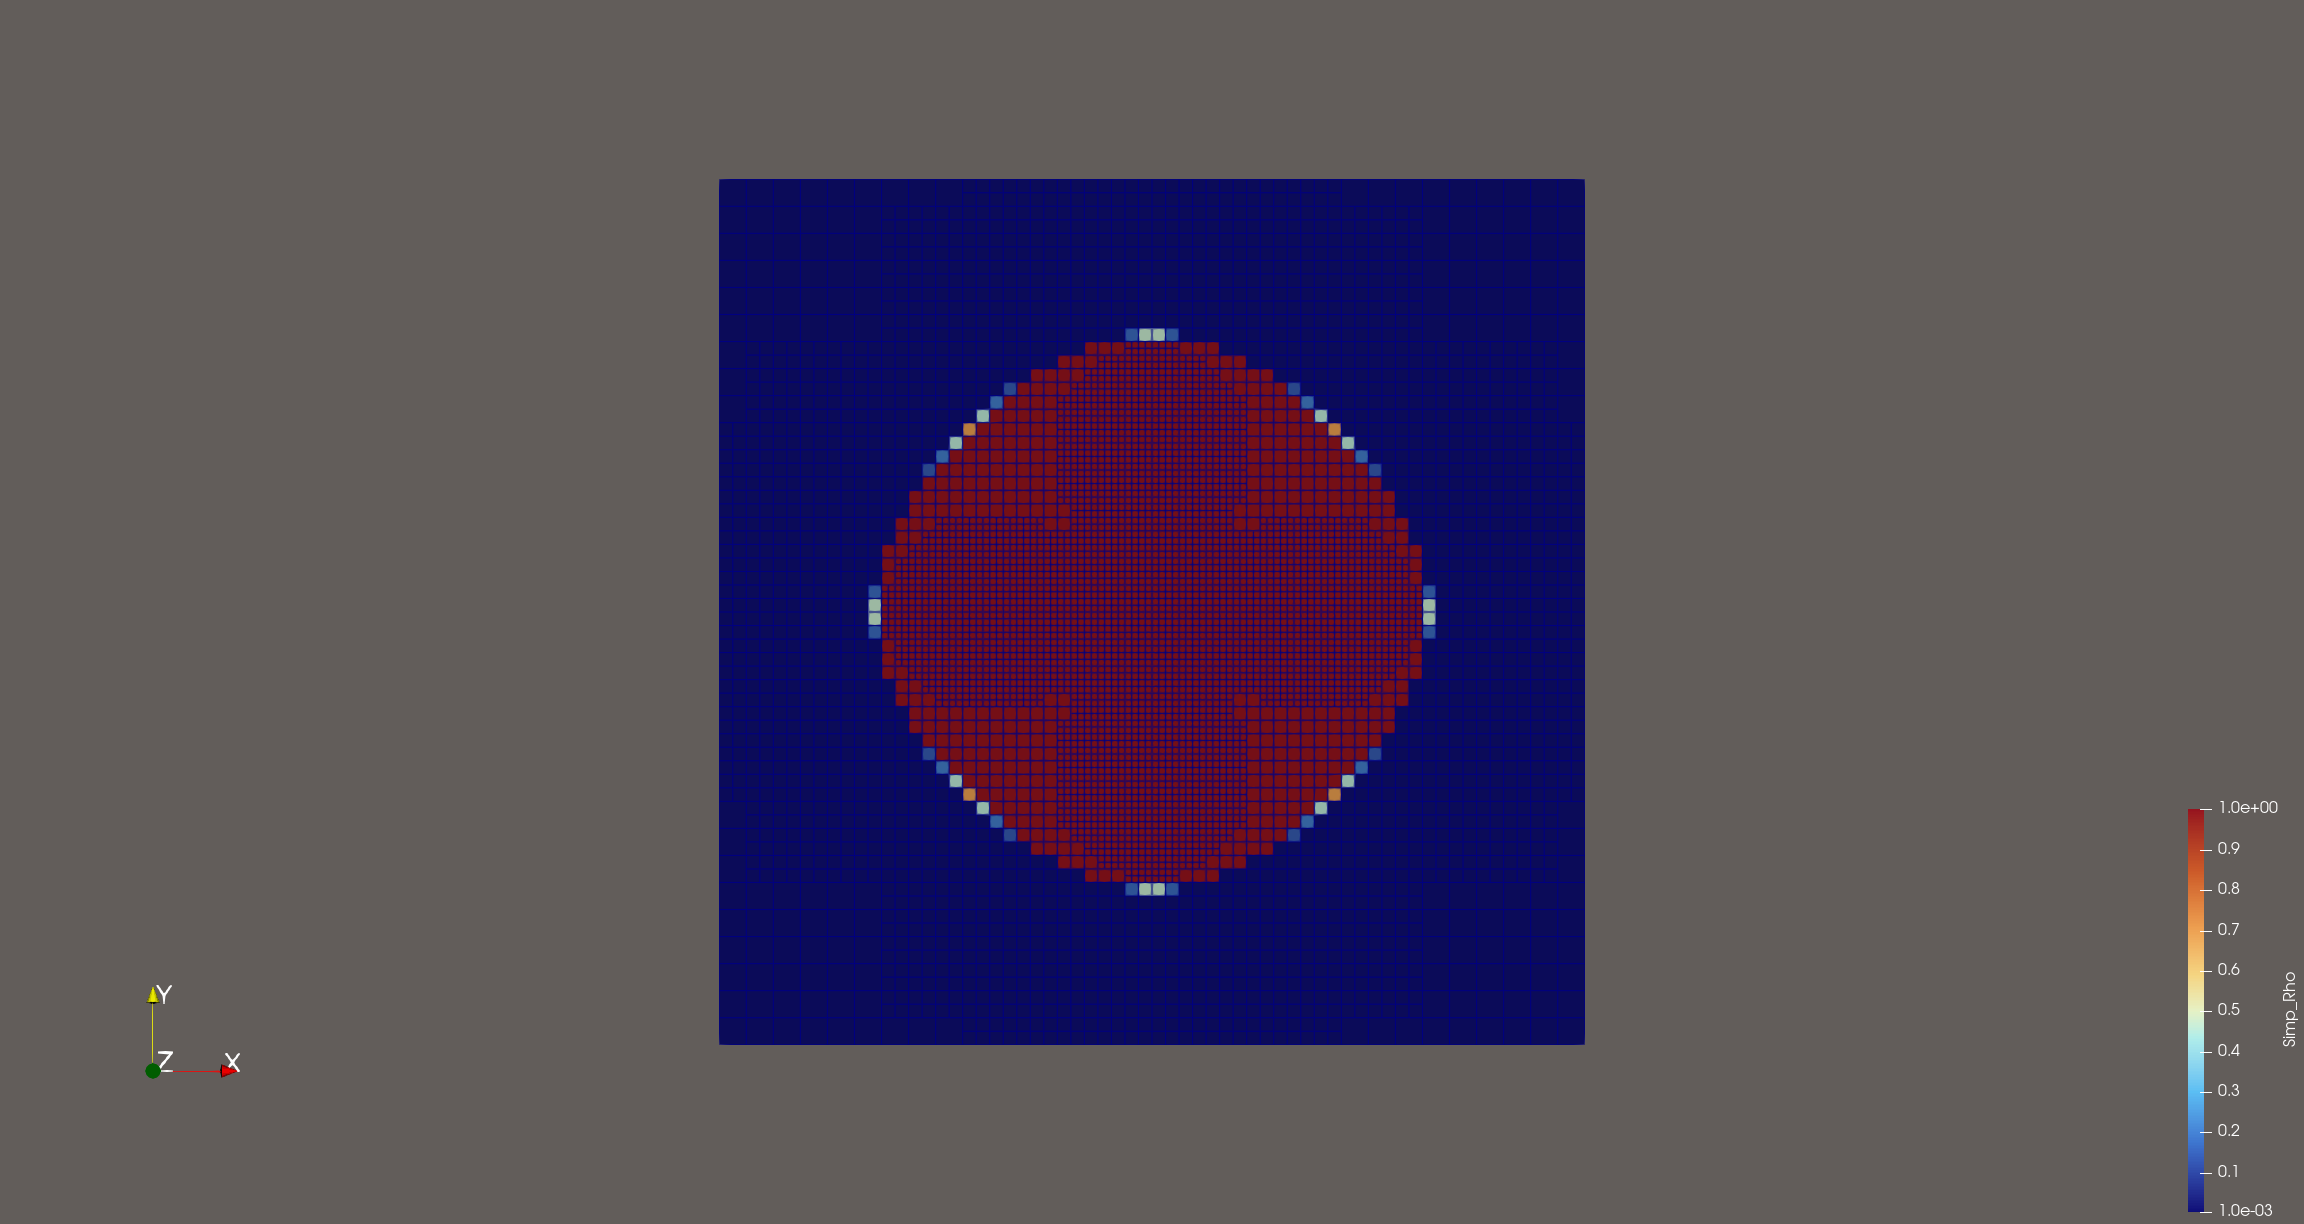
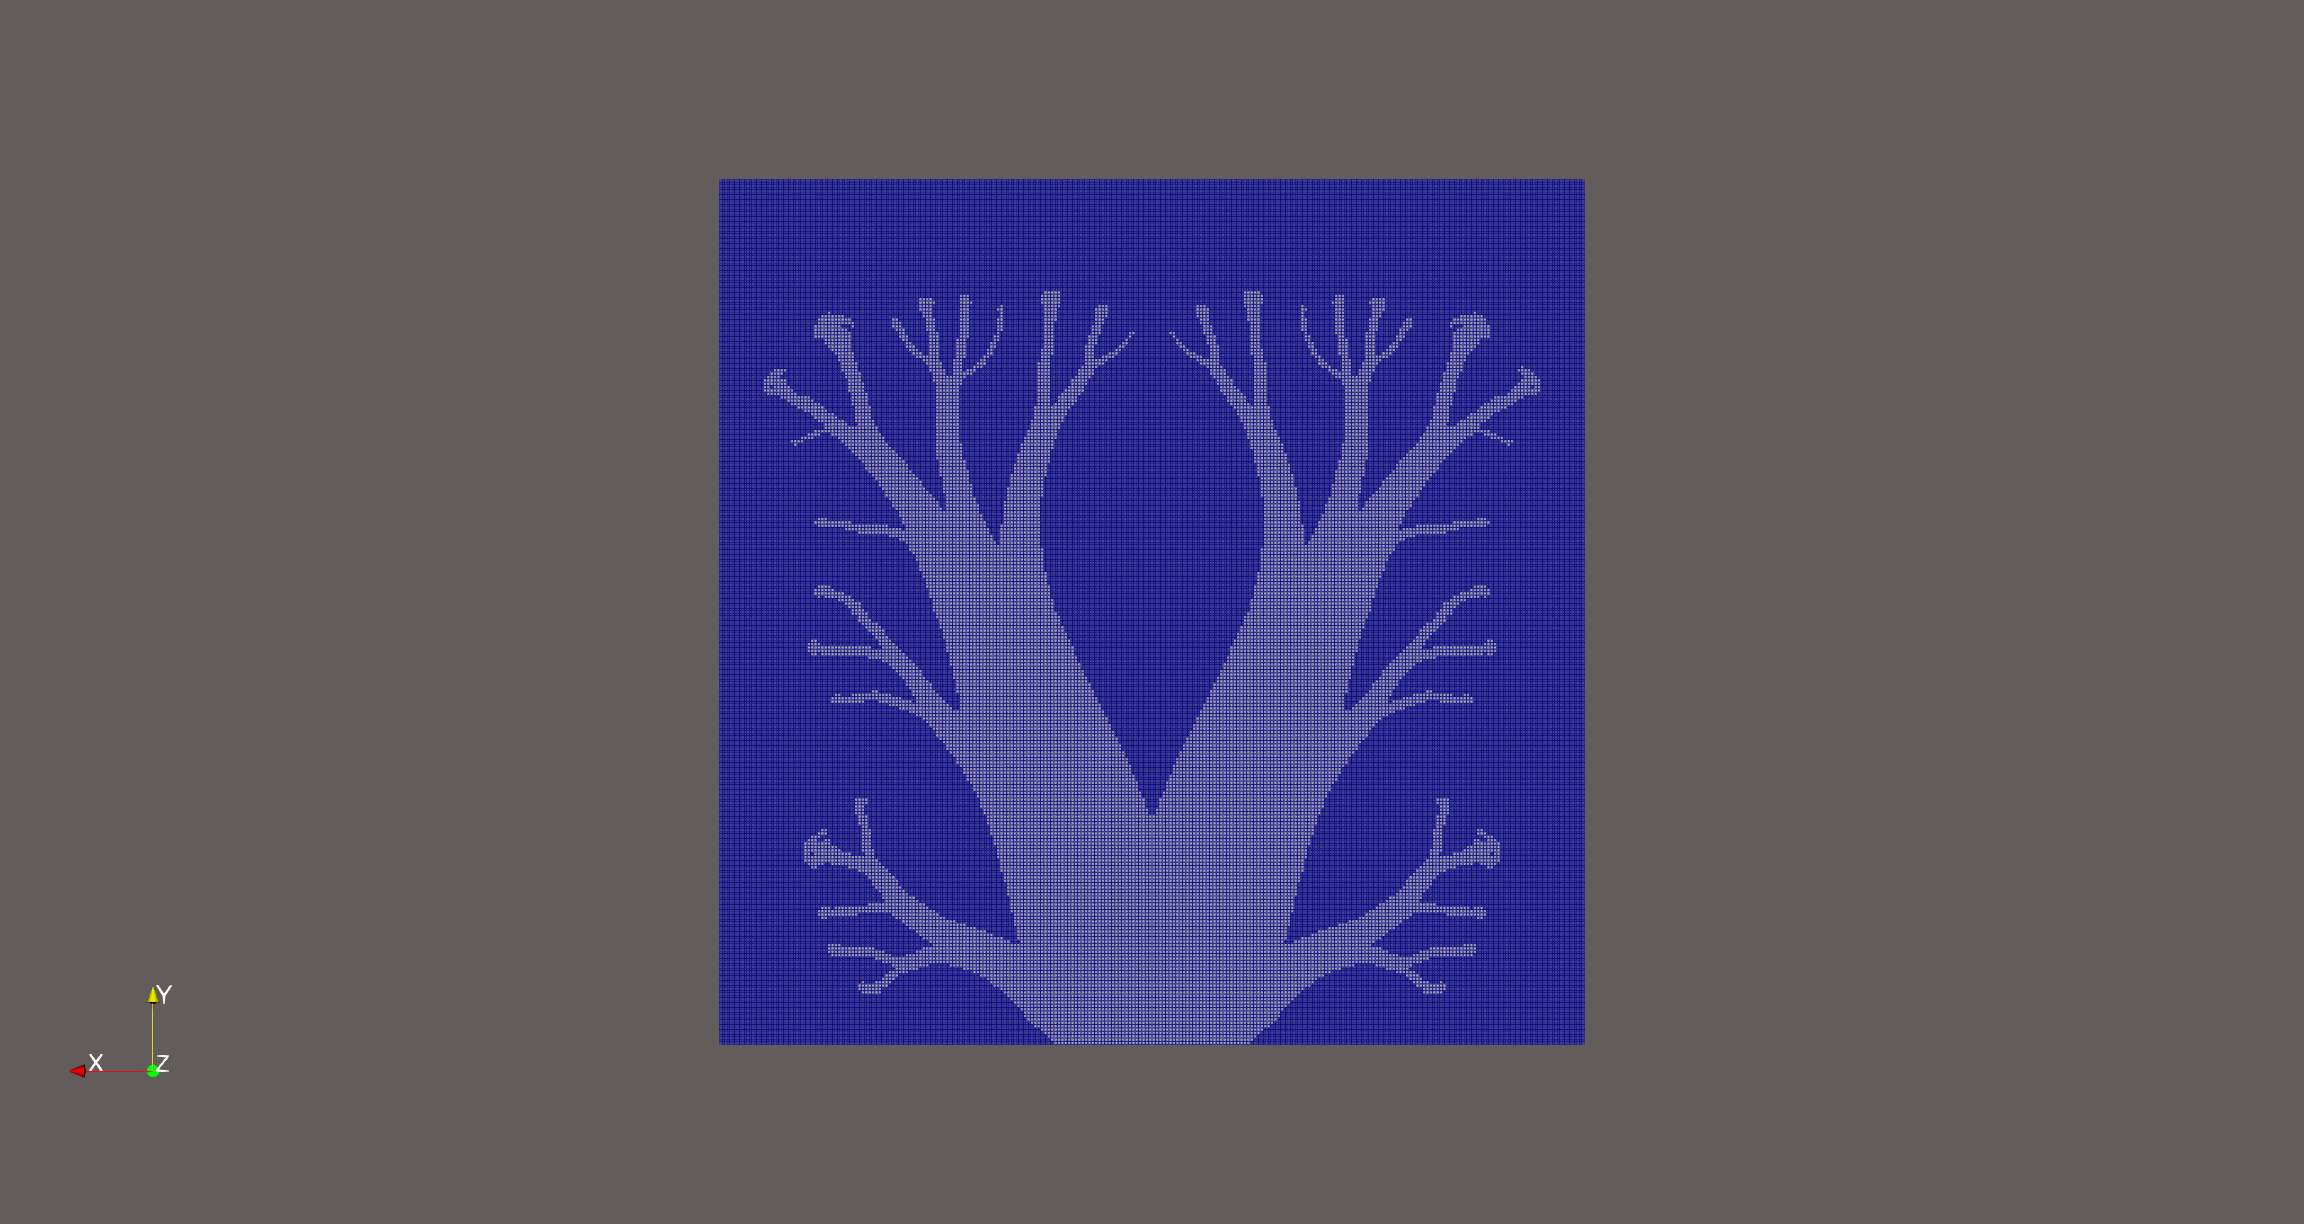
Improve documentation and fix build configuration

Changed region(s): [[0.3125, 0.1242, 0.6875, 0.8693], [0.9375, 0.652, 0.9688, 0.9935]]

diff --git a/topology_optimization_martixfree_gmg/doc/extension/adaptive_mesh.md b/topology_optimization_martixfree_gmg/doc/extension/adaptive_mesh.md
@@ -11,7 +11,7 @@ In the implementation, the following vectors are transferred across refinement a
 - the two previous design iterates stored in `MMA_Optimizer.Old_Design_Variables`;
 - the maximum and minimum design-variable bounds, `Simp_Rho_Discrete_Max` and `Simp_Rho_Discrete_Min`.
 
-The transfer is performed with `parallel::distributed::SolutionTransfer` associated with the design-variable DoFHandler.
+The transfer is performed with `SolutionTransfer` associated with the design-variable DoFHandler.
 
 ## Refinement procedure
 
@@ -44,8 +44,8 @@ void Refine_Grid()
     &Simp_Rho_Discrete_Max,
     &Simp_Rho_Discrete_Min};
 
-  parallel::distributed::SolutionTransfer<dim, VectorType>
-    solution_transfer(dof_handler_rho);
+  SolutionTransfer<dim, VectorType>
+    solution_transfer(dof_handler_simp);
 
   triangulation.prepare_coarsening_and_refinement();
   solution_transfer.prepare_for_coarsening_and_refinement(vectors_in);
@@ -54,6 +54,8 @@ void Refine_Grid()
   // Rebuild the design DoFHandler and reinitialize the MMA vectors.
   setup_simp_system();
   MMA_Optimizer.Deal_II_MMA_Reinit(Simp_Rho_Discrete);
+  get_cell_volume();
+  Rmin = 2. * pow(Cell_Volume_Discrete.linfty_norm(), 1./(double)dim) / (2. * sqrt(3.));
 
   std::vector<VectorType *> vectors_out = {
     &Simp_Rho_Discrete,
@@ -72,11 +74,34 @@ void Refine_Grid()
   setup_filter_system();
   setup_multigrid_filter_system();
 
-  get_cell_volume();
+  // Print Freedom
+  pcout<<std::endl;
+  pcout<<"+---------------------------------------------------------------------------+"<<std::endl;
+  pcout<<"|                           REFINE GRID FREEDOM                             |"<<std::endl;
+  pcout<<"+---------------------------------------------------------------------------+"<<std::endl;
+  pcout<<std::endl;
+
+  pcout<<"+---------------------------------------------------------------------------+"<<std::endl;
+  pcout<<"                             "<< "Simp    : "<< dof_handler_simp.n_dofs() << std::endl;
+  pcout<<"                             "<< "Laplace : "<< dof_handler.n_dofs() << std::endl;
+  pcout<<"                             "<< "Filter  : "<< dof_handler_filter.n_dofs() << std::endl;
+  pcout<<"+---------------------------------------------------------------------------+"<<std::endl;
+  pcout<<std::endl;
+}
+// In topology optimization loop
+if(MMA_Optimizer.Loop_Iter % 30 == 0)
+{
+  Refine_Grid();
+  //
+  assemble_filter_rhs(Cell_Volume_Discrete);
+  solve_filter_chebyshev();
+  generate_average_vector(Constraint_Discrete_Derivative[0]);
+  Constraint_Discrete_Derivative[0] /=  (volfrac * Cell_Volume_Discrete.l1_norm());
 }
 ```
 
-The exact `SolutionTransfer` API can differ between deal.II releases. In the deal.II 9.8 configuration used for this project, the interface shown above is deprecated but remains available. Check the installed deal.II documentation when adapting the example to a newer release.
+Optimization Mesh look like
+![Mesh Adapt](../../fig/heat-4.png)
 
 ## Practical considerations
 
